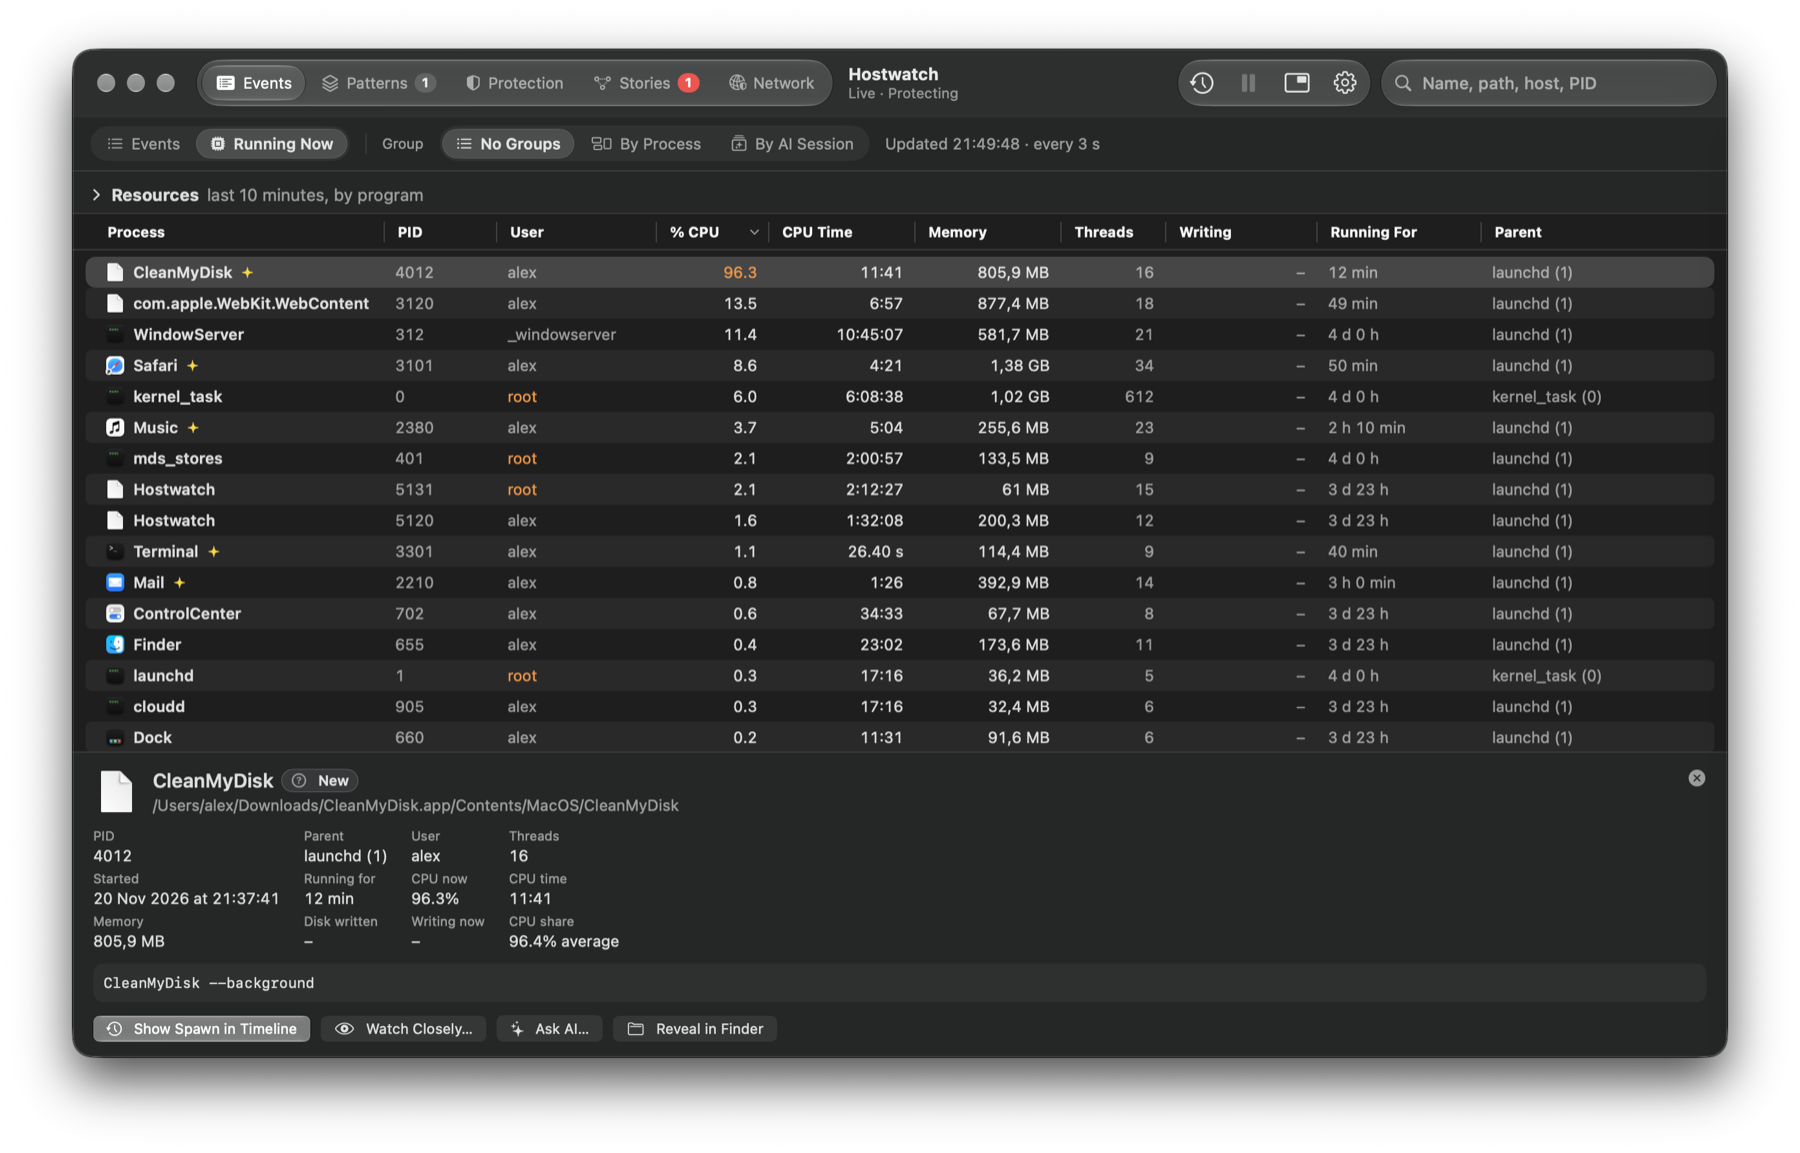
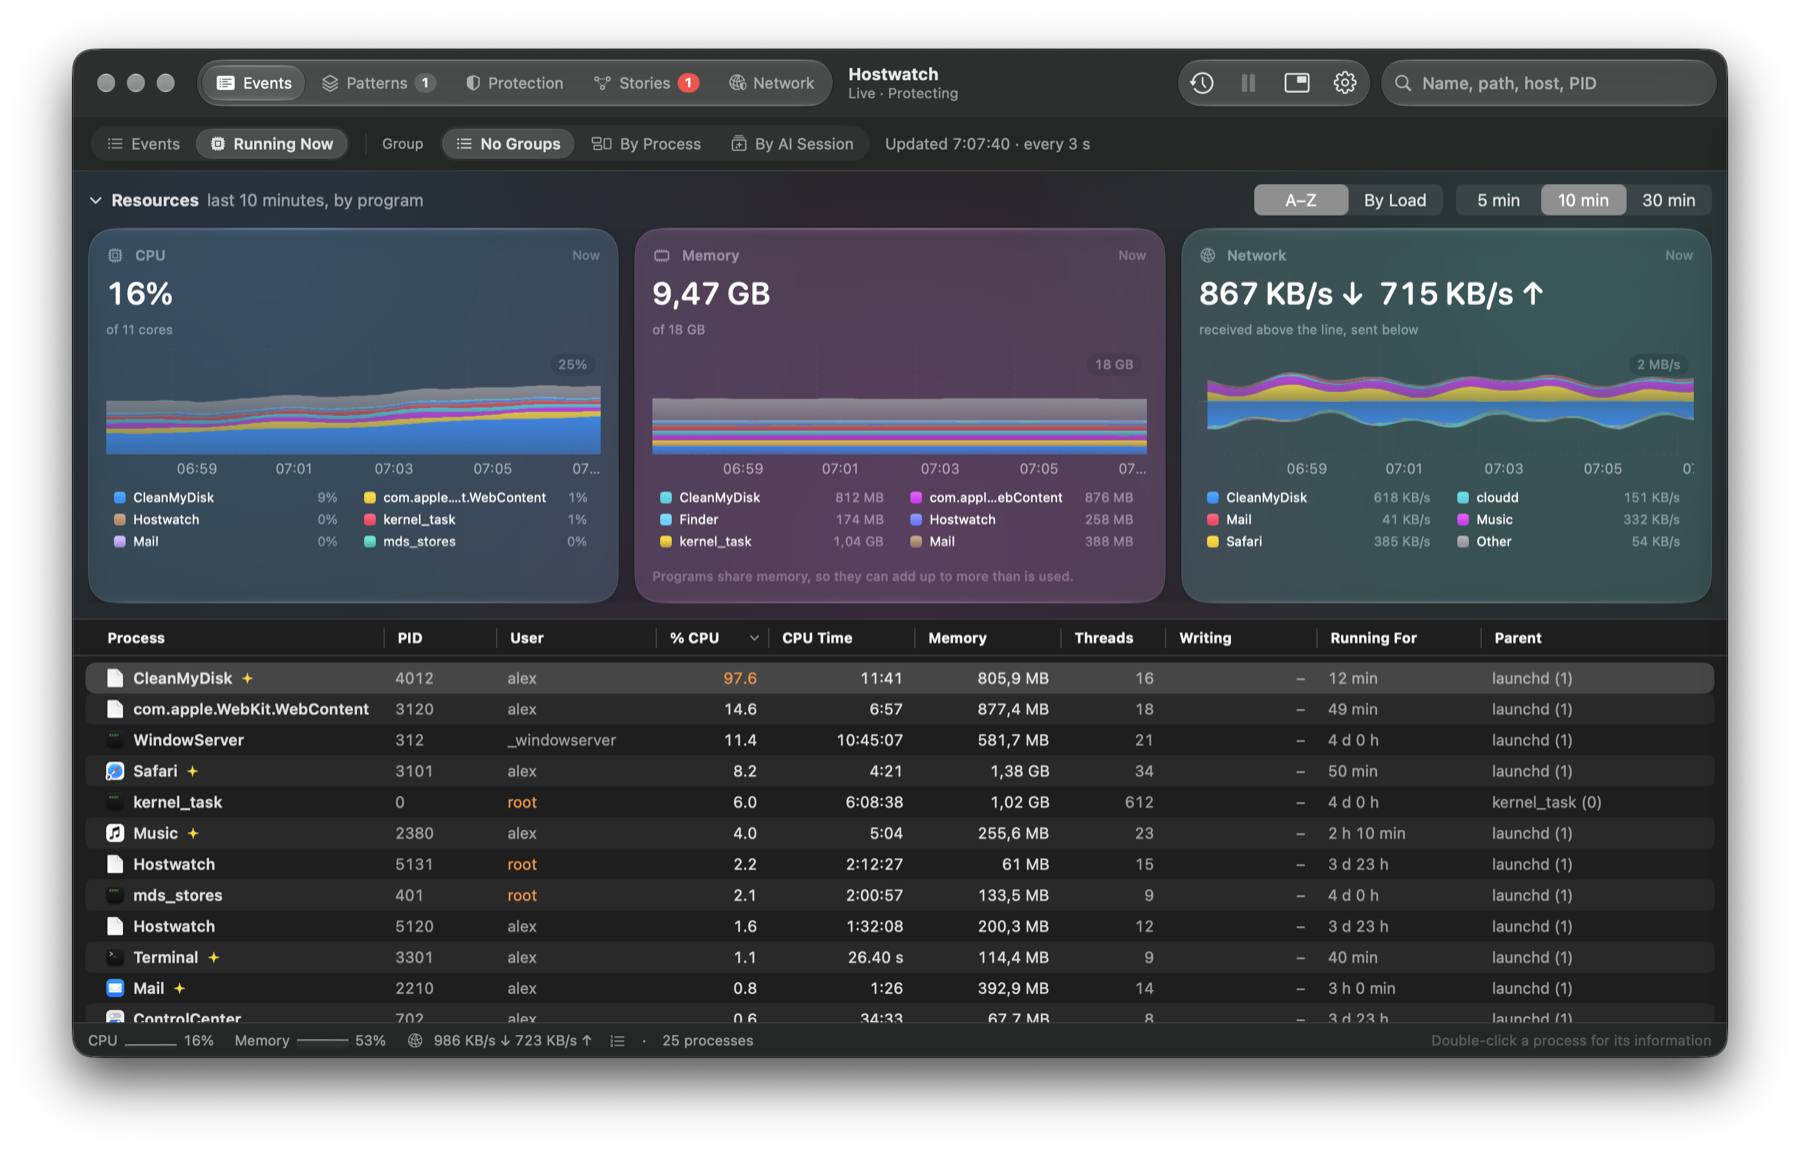
Demo: Running Now's charts full of the demo machine, and a verdict in Watch Closely
The website's Running Now screenshot showed the Resources charts folded, because the demo had no
CPU, memory or network history. The demo now makes half an hour of it from its own process list,
then a sample every tick. Watch Closely gets a ready AI answer for its screenshot. Demo build only.

diff --git a/src/hostwatch/Views/Demo.swift b/src/hostwatch/Views/Demo.swift
@@ -111,6 +111,51 @@ enum Demo {
              ago: 4 * 86_400 - 40, user: "alex", cpu: 0.1, mem: 58_000_000, threads: 7),
     ]
 
+    /// Running Now's charts: the machine of the running list, one sample every 5 s. CleanMyDisk climbs to nearly a
+    /// whole core and sends far more than it receives, every 10 s, as the rest of the demo says it does.
+    static func metricSample(at date: Date) -> MetricSample {
+        let t = date.timeIntervalSince1970.rounded()
+        let age = epoch.timeIntervalSince1970 - t
+        func wave(_ seed: Double, _ amount: Double) -> Double { 1 + amount * sin(t / (17 + seed) + seed) * cos(t / (41 + seed * 3)) }
+        let procs = processes.filter { $0.cpu > 0 || $0.mem > 100_000_000 }.map { p -> TopProcess in
+            let seed = Double(p.pid % 97)
+            var cpu = p.cpu * wave(seed, 0.35)
+            if p.path == cleaner { cpu = min(1, max(0.55, 1 - age / 1200)) * p.cpu * wave(seed, 0.06) }
+            return TopProcess(pid: p.pid, name: p.name, path: p.path.hasPrefix("/") ? p.path : p.name,
+                              cpu: (cpu * 10).rounded() / 10, mem: Int64(Double(p.mem) * wave(seed, 0.03)), read: 0, write: 0)
+        }
+        let cores = Double(ProcessInfo.processInfo.activeProcessorCount)
+        let physical = Double(ProcessInfo.processInfo.physicalMemory)
+        let used = min(0.9, procs.reduce(0) { $0 + Double($1.mem) } / physical + 0.18)
+        var sample = MetricSample(t: t, cpu: ((procs.reduce(0) { $0 + $1.cpu } / cores + 2.5) * 10).rounded() / 10,
+                                  mem: (used * 1000).rounded() / 1000, pressure: 1, netIn: 0, netOut: 0)
+        sample.programs = ResourceSeries.programs(procs)
+        do {
+            let kb = 1024.0
+            let rates: [String: [Double]] = [
+                "CleanMyDisk": [14 * kb * wave(3, 0.4), 610 * kb * wave(5, 0.5)],
+                "Safari": [380 * kb * wave(7, 0.7), 22 * kb * wave(8, 0.5)],
+                "Music": [290 * kb * wave(11, 0.2), 4 * kb],
+                "Mail": [40 * kb * wave(13, 0.9), 9 * kb * wave(14, 0.9)],
+                "cloudd": [60 * kb * wave(17, 0.8), 75 * kb * wave(19, 0.8)],
+                ResourceSeries.other: [30 * kb * wave(23, 0.5), 12 * kb * wave(29, 0.5)],
+            ]
+            // The strip's numbers on every sample, the chart's on the ones a traffic report (every 10 s) arrived for.
+            if Int(t) % 10 == 0 { sample.traffic = rates.mapValues { $0.map { $0.rounded() } } }
+            sample.netIn = rates.values.reduce(0) { $0 + $1[0] }.rounded()
+            sample.netOut = rates.values.reduce(0) { $0 + $1[1] }.rounded()
+        }
+        return sample
+    }
+
+    /// The last half hour of that machine, so the charts open full.
+    @MainActor static func metricHistory(until end: Date = Date()) -> [MetricSample] {
+        let last = (end.timeIntervalSince1970 / MetricsStore.interval).rounded(.down) * MetricsStore.interval
+        return stride(from: last - 30 * 60, through: last, by: MetricsStore.interval).map {
+            metricSample(at: Date(timeIntervalSince1970: $0))
+        }
+    }
+
     static func runningList(now: Date = epoch, jitter: Bool = true) -> [RunningProcessInfo] {
         processes.map { p in
             let wobble = jitter ? Double.random(in: 0.9...1.03) : 1
@@ -280,6 +325,25 @@ enum Demo {
     }
 
     // MARK: Watch Closely
+
+    /// What the AI says about that minute, in its usual shape: the screenshot shows a verdict, not an empty card.
+    static let watchAnswer = """
+    VERDICT: DANGEROUS
+    CONFIDENCE: high
+    RISK: 95
+
+    **What it is:** an unsigned app from Downloads that steals browser data and keeps itself running.
+
+    **Why:**
+    - Read the keychain, Chrome's saved logins and Safari's cookies within seconds of starting.
+    - Added a launch agent so it starts at every login, and removed its own download quarantine.
+    - Sent the collected file to update.cleanmydisk-cdn.xyz, a domain first seen today.
+    - Tried to kill Hostwatch.
+
+    **What to do:**
+    - Quit it, delete CleanMyDisk.app and ~/Library/LaunchAgents/com.cleanmydisk.update.plist.
+    - Change the passwords saved in your browser.
+    """
 
     /// What Watch Closely would have recorded of CleanMyDisk for a minute.
     static func watchProfile() -> BehaviorProfile {

diff --git a/src/hostwatch/History/Metrics.swift b/src/hostwatch/History/Metrics.swift
@@ -277,6 +277,13 @@ final class MetricsStore: ObservableObject {
     private var lastMaintenanceDay = ""
     private let cache = MetricsCache()
 
+    #if DEMO
+    /// The demo's machine instead of this Mac's: its history at once, then a sample of it on every tick.
+    var demoSample: ((Date) -> MetricSample)? {
+        didSet { if demoSample != nil { recent = Demo.metricHistory() } }
+    }
+    #endif
+
     init(directory: @escaping () -> URL) {
         self.directory = directory
     }
@@ -320,6 +327,13 @@ final class MetricsStore: ObservableObject {
 
     private func tick() {
         let now = Date()
+        #if DEMO
+        if let make = demoSample {
+            recent.append(make(now))
+            if let first = recent.first, now.timeIntervalSince(first.date) > 30 * 60 { recent.removeFirst() }
+            return
+        }
+        #endif
         let r = sampler.read()
         var sample = MetricSample(t: now.timeIntervalSince1970.rounded(), cpu: (r.cpu * 10).rounded() / 10,
                                   mem: (r.mem * 1000).rounded() / 1000, pressure: r.pressure,

diff --git a/src/hostwatch/App/AppDelegate+Features.swift b/src/hostwatch/App/AppDelegate+Features.swift
@@ -18,6 +18,7 @@ extension AppDelegate {
         model.flushUI()
         firewall.relayStatus("on", "")
         signatures.showSeenOnce = true
+        metrics.demoSample = { Demo.metricSample(at: $0) }
         running.request = { [weak self] in
             self?.running.receive(Demo.runningList())
             return true
@@ -121,6 +122,8 @@ extension AppDelegate {
                     openWatch(for: e)
                     if let (id, w) = watches.first {
                         w.session.receive(WatchMessage(id: id, state: "done", detail: "time limit", profile: Demo.watchProfile()))
+                        w.session.prepareAnalysis()
+                        w.session.analysis?.demoAnswer(Demo.watchAnswer)
                     }
                 }
             case "live":

diff --git a/src/hostwatch/AI/AskAI.swift b/src/hostwatch/AI/AskAI.swift
@@ -430,6 +430,15 @@ final class AIAnalysis: ObservableObject {
         return rest.split(separator: "\n").first.map { $0.trimmingCharacters(in: .whitespaces) }
     }
 
+    #if DEMO
+    /// The demo's answer, shown as if the AI had replied: Watch Closely's screenshot has the verdict in it.
+    func demoAnswer(_ text: String) {
+        answer = text
+        updateVerdict()
+        state = .done
+    }
+    #endif
+
     private func updateVerdict() {
         guard let range = answer.range(of: #"VERDICT:\s*\**\s*(SAFE|SUSPICIOUS|DANGEROUS|UNKNOWN)"#,
                                        options: [.regularExpression, .caseInsensitive]) else { return }
